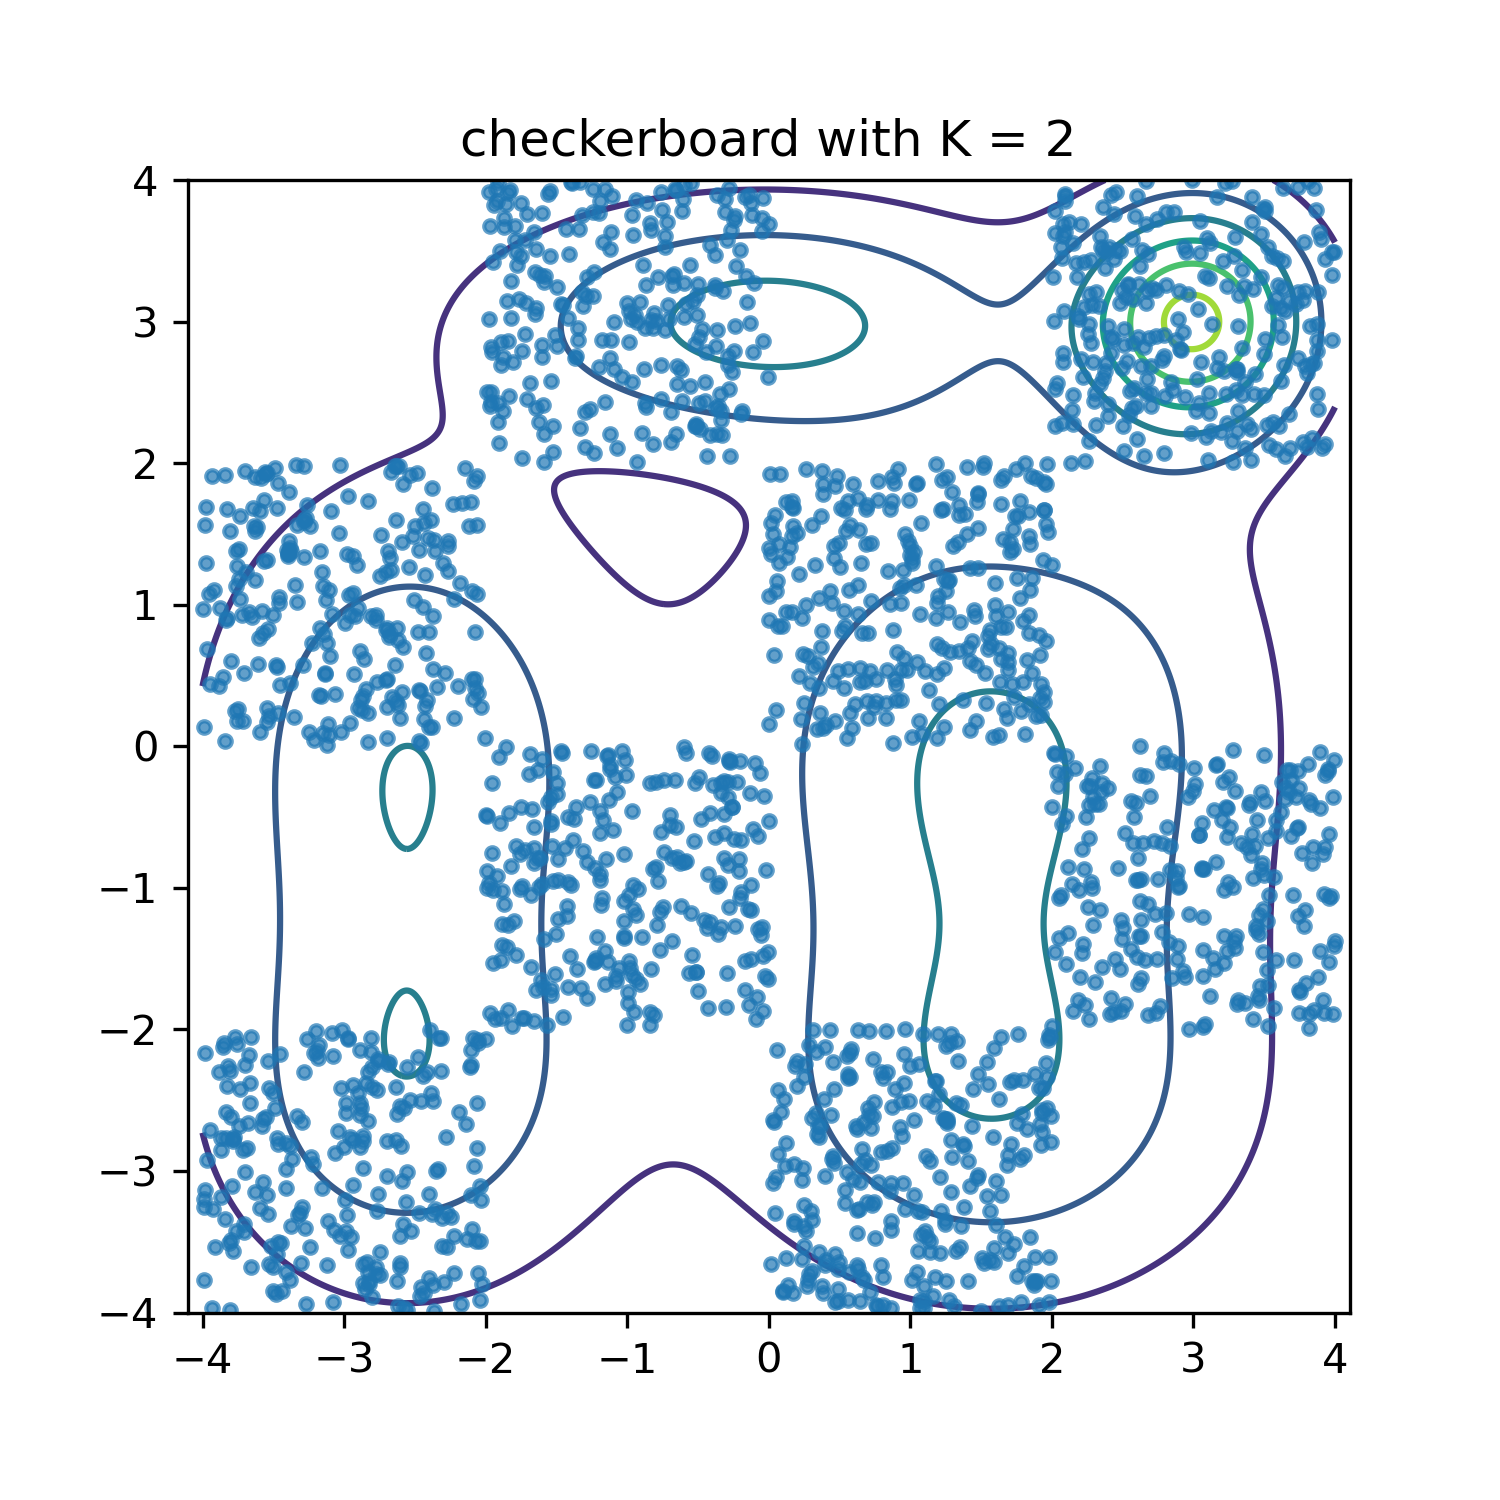
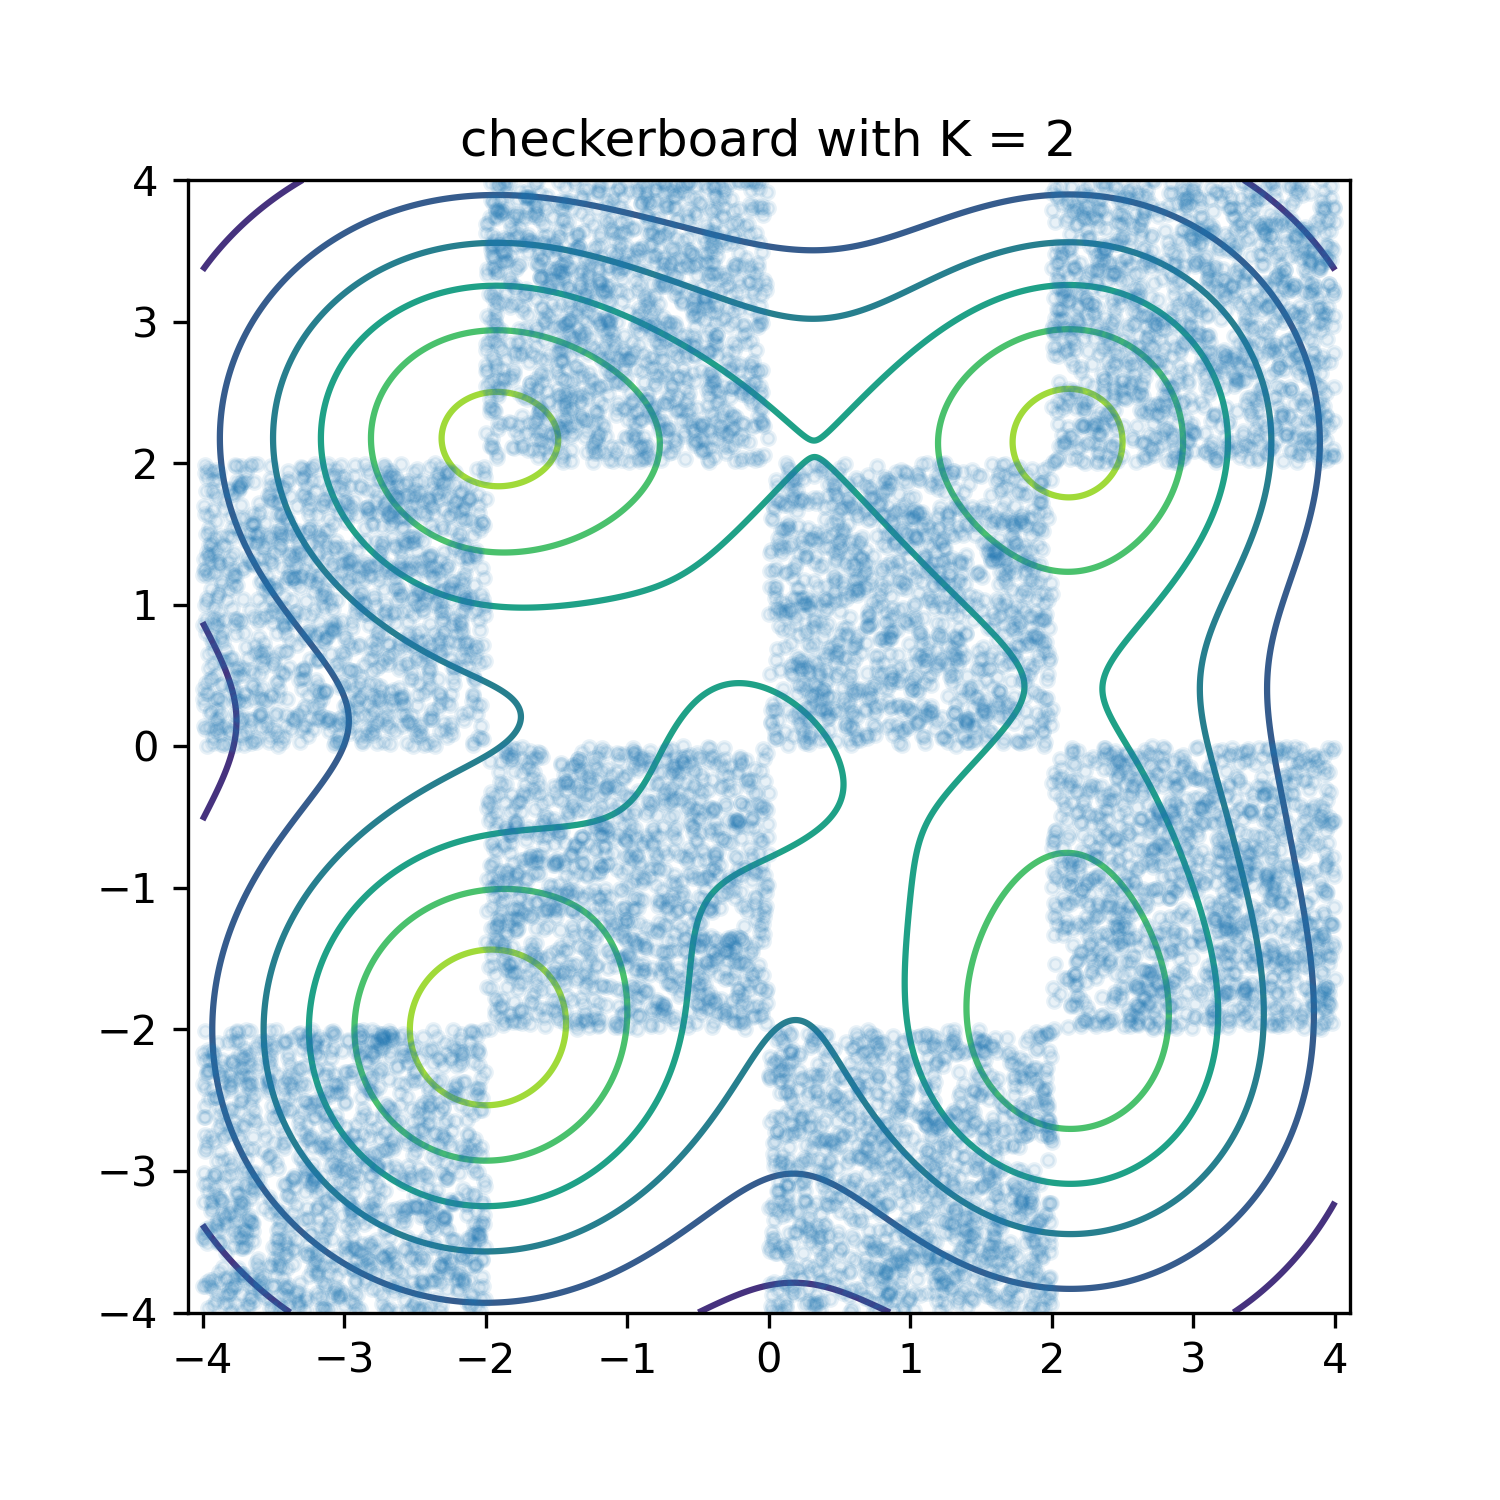
Made a ton of figures

diff --git a/notebooks/TT_gmm.py b/notebooks/TT_gmm.py
@@ -15,7 +15,7 @@ from tqdm import tqdm
 #%% Set data parameters
 N = 10000
 data_names = d.fjjordDataNames()
-name = data_names[7]
+name = data_names[0]
 
 data = d.get_ffjordData(name,batch_size=N)
 
@@ -31,26 +31,21 @@ batch_size = 100
 dataset = d.to_tf_dataset(data, batch_size=batch_size)
 
 #%% Define model and training parameters
-K = 8 # Number of components
+K = 2 # Number of components
 model = m.TensorTrainGaussian2D(K)
 
-EPOCHS = 20
+EPOCHS = 2
 optimizer = tf.keras.optimizers.Adam(learning_rate=1e-3)
 
 #%% Train model 
 # Fit the model
 losses = []
 start_time = time.time()
-for epoch in tqdm(range(EPOCHS),desc='Training TT'):
-    # loss = model.train_step(data,optimizer) 
-    # losses.append(loss.numpy())
-    
+for epoch in tqdm(range(EPOCHS),desc='Training TT'):    
     loss = 0
     for i,x in enumerate(dataset):
         loss += model.train_step(x,optimizer) 
     losses.append(loss.numpy()/len(dataset))
-    # if epoch % 100 == 0:
-    #     print("{}/{} mean neg log likelihood: {}".format(epoch, EPOCHS, loss))
         
 end_time = time.time()
 print(f'Training time elapsed: {int(end_time-start_time)} seconds')

diff --git a/models/TTGauss.py b/models/TTGauss.py
@@ -70,7 +70,8 @@ class TensorTrainGaussian2D(tf.keras.Model):
                 mid += temp_mid*inner
             likelihoods += Wk0[k0] * mid
         
-        log_likelihoods = tfm.log(likelihoods)
+        # add small number to avoid nan
+        log_likelihoods = tfm.log(likelihoods+np.finfo(np.float64).eps)
         return log_likelihoods
 
     def normalize_weights(self):
